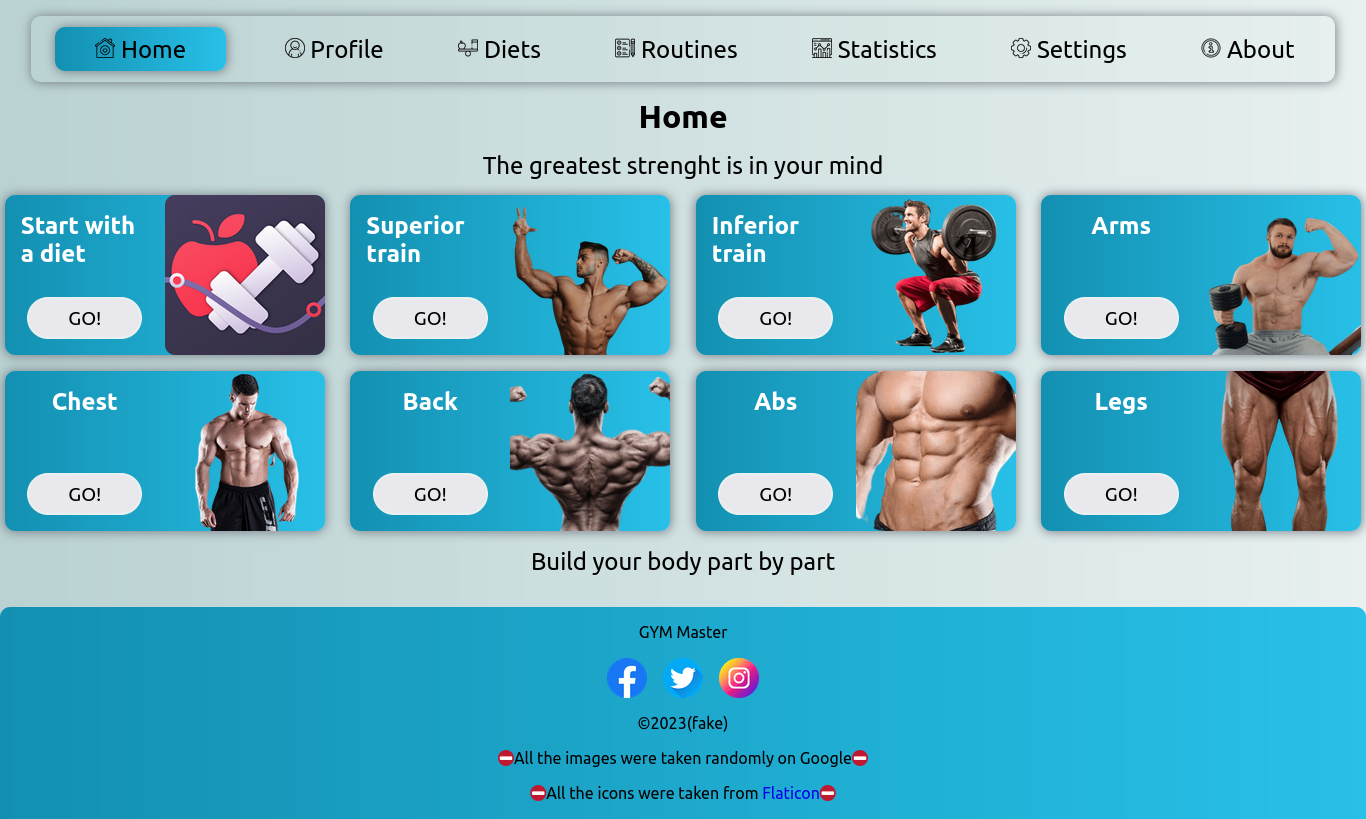
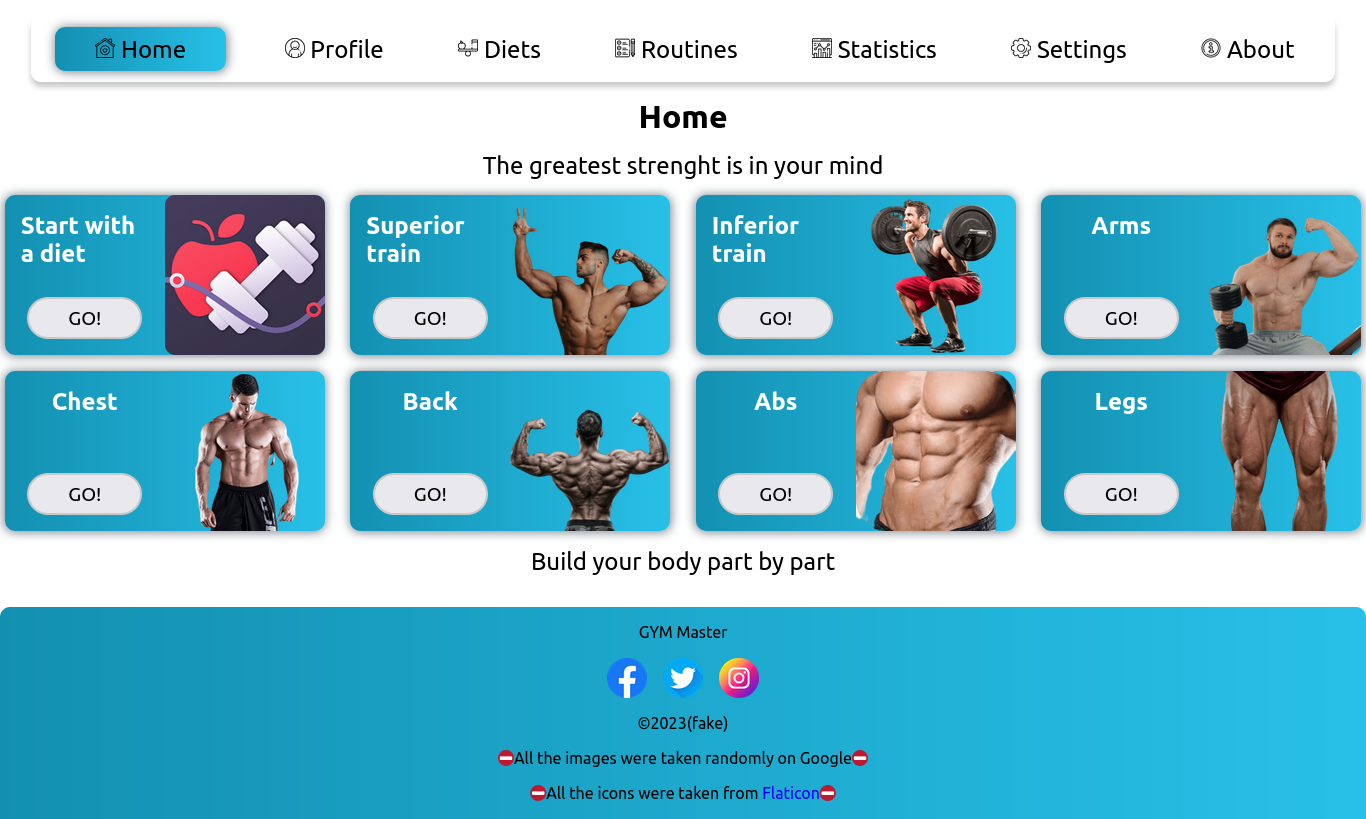
UI fixed

diff --git a/src/styles/_nav-bar.scss b/src/styles/_nav-bar.scss
@@ -9,7 +9,7 @@
 		position: absolute;
 		left: 0px;
 		padding: 1rem;
-		width: 30%;
+		width: 12rem;
 		display: flex;
 		flex-direction: column;
 		align-items: center;
@@ -126,7 +126,7 @@
 			padding: 0.2rem;
 			position: relative;
 			border-radius: $base-border-radius;
-
+			box-shadow: 0px 5px 5px $secondary;
 			ul {
 				margin-top: 0rem;
 				display: flex;
@@ -145,7 +145,7 @@
 						font-size: 1.5rem;
 
 						&:hover {
-							background: white;
+							background: lighten($color: $primary, $amount: 10%);
 						}
 
 						&.router-link-exact-active {

diff --git a/src/styles/_variables.scss b/src/styles/_variables.scss
@@ -5,8 +5,7 @@ $font-size-lg: 1.5rem;
 $font-size-xl: 2rem;
 
 $primary: #28c0e8;
-$secondary: #e8f0f0;
-$terciary: black;
+$secondary: #c9c9c9;
 $shadow: #788088;
 
 $primary-dark: darken($primary, 15%);

diff --git a/src/styles/_base.scss b/src/styles/_base.scss
@@ -7,7 +7,7 @@
 }
 
 body {
-	background: $gradient-secondary;
+	background: white;
 }
 h1 {
 	text-align: center;
